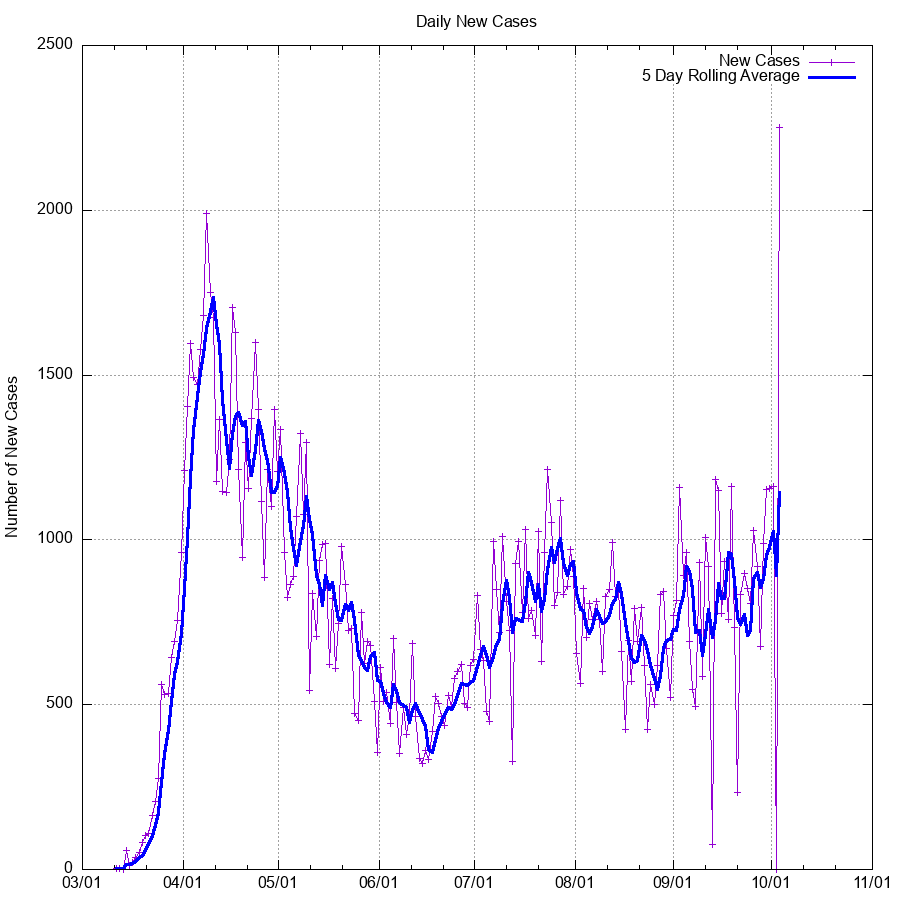
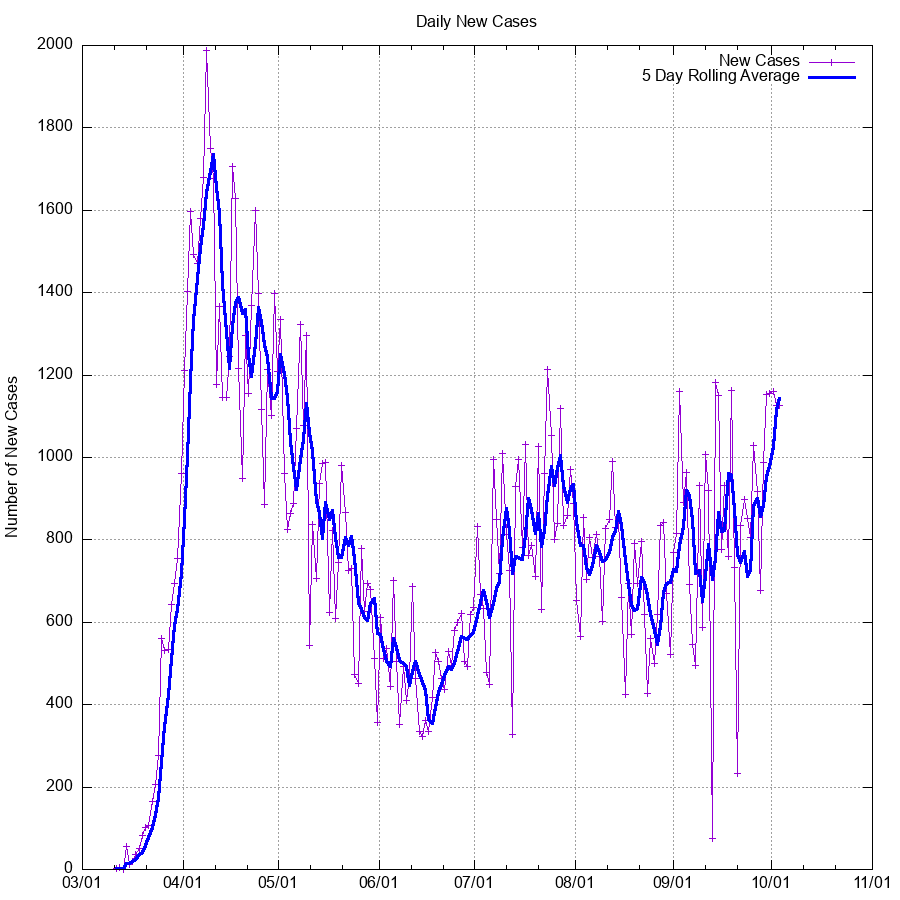
Amended 4 Oct 2020 Data

diff --git a/README.md b/README.md
@@ -304,6 +304,9 @@ reporting performed by actual epidemiologists and data scientists.
   and post the information.
   This represents a major oversight in the reporting since the onset of the epidemic.
   Attempts will be made to adjust for the information discrepancy (i.e. averaging)
+  Because the data was only updated on 04 Oct to cover both dates, the values for
+  new cases were amended to show the average growth across the two days, so that
+  the data remains consistent with standard growth.
 
 ## Sample Output
 ```
